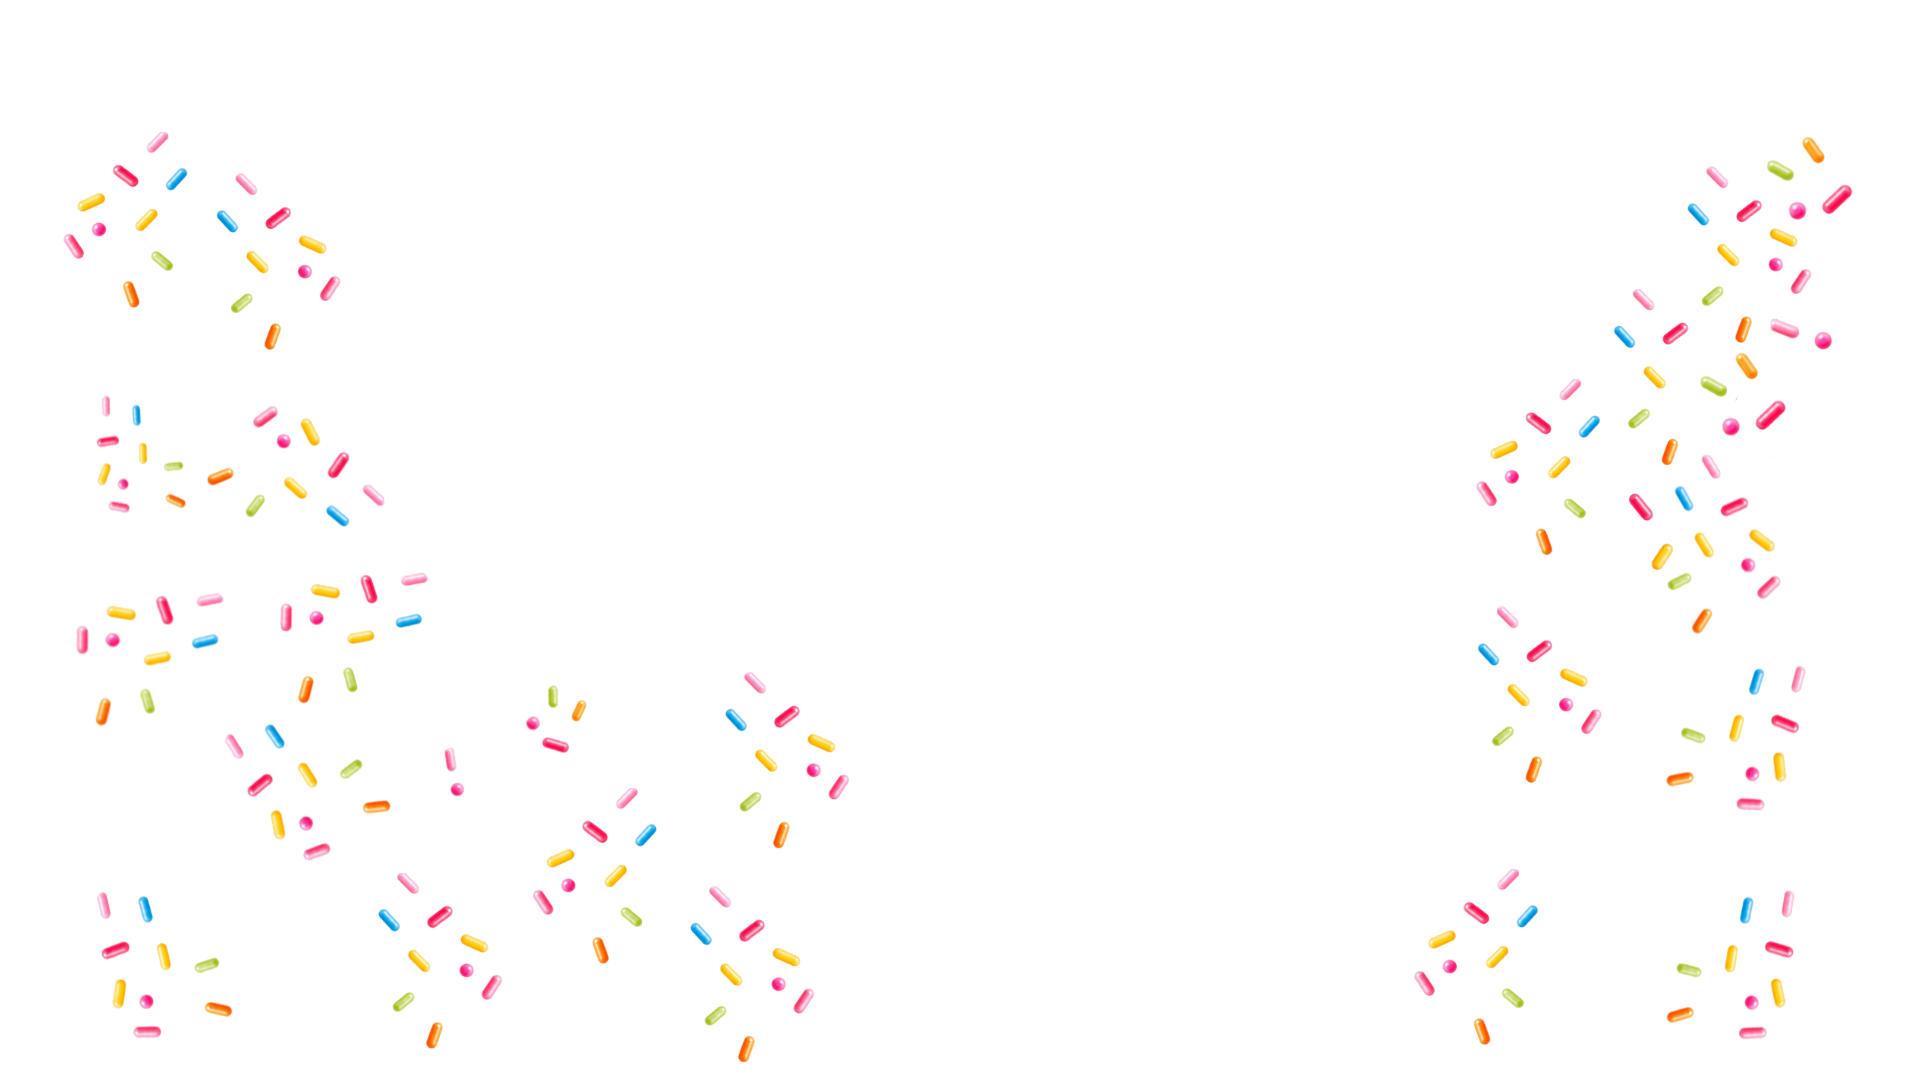
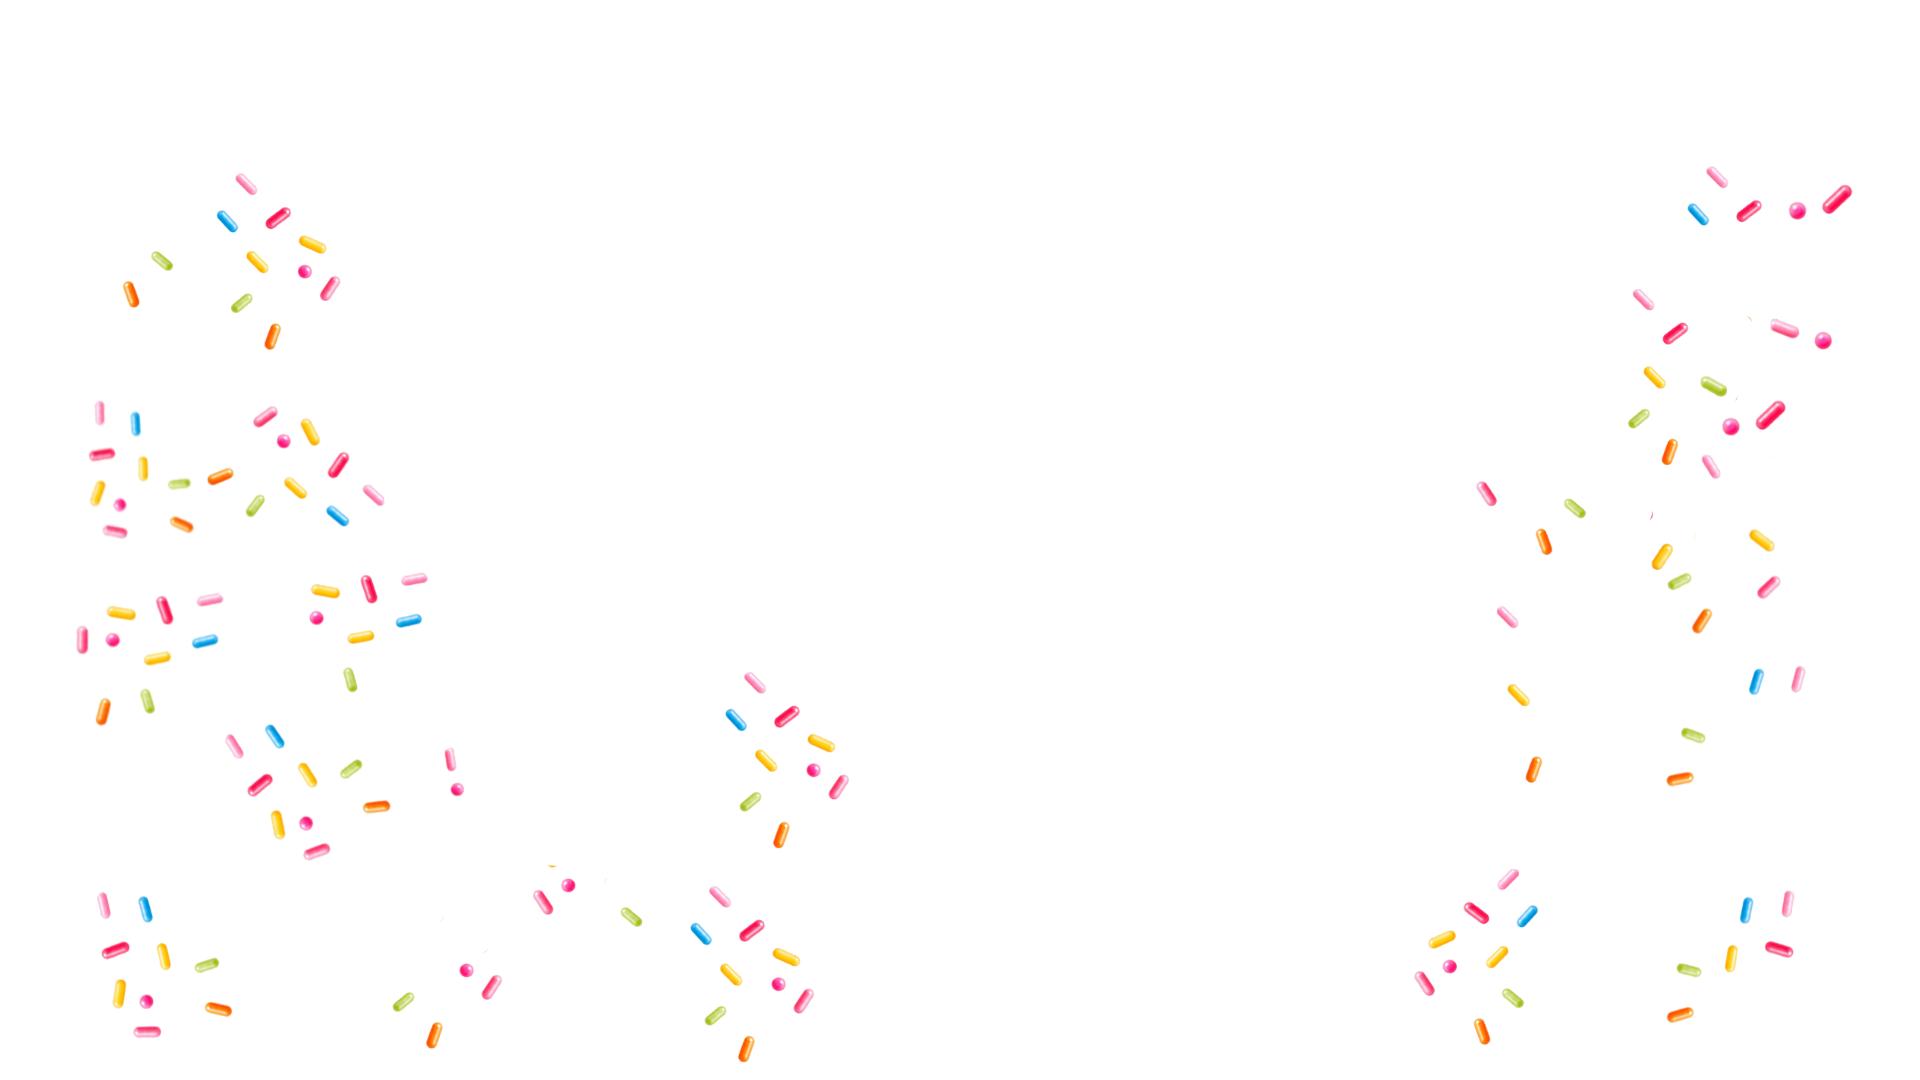
lets see

diff --git a/cake-builder.css b/cake-builder.css
@@ -7502,9 +7502,9 @@ background-image:
         repeat-y,
         repeat-y;
 
-    background-size:
-        clamp(64px, 7vw, 124px) auto,
-        clamp(64px, 7vw, 124px) auto;
+background-size:
+    190px auto,
+    190px auto;
 }
 
 @media (max-width: 720px) {
@@ -11681,4 +11681,93 @@ right: 0;
 ) .compact-choice-row label:has(input:focus-visible) {
     outline: 2px solid #4d1f16;
     outline-offset: 3px;
+}
+/* Three individually designed sprinkle patches for the top of Step 2 */
+.tpj-step2-scatter {
+    display: none;
+    position: absolute;
+    inset: 0;
+    z-index: 0;
+    pointer-events: none;
+}
+
+@media (min-width: 901px) {
+    .cake-builder-app:has(#builderStep2.is-active) .tpj-step2-scatter {
+        display: block;
+
+        background-image:
+            url("images/cake-builder/decor/TPJ-Sprinkles-abovecakescatter.png"),
+            url("images/cake-builder/decor/TPJ-Sprinkles-besideyourcakecatter.png"),
+            url("images/cake-builder/decor/TPJ-Sprinkles-middlescatter.png");
+
+        background-repeat: no-repeat, no-repeat, no-repeat;
+
+        background-size:
+            100% auto,
+            100% auto,
+            100% auto;
+
+background-position:
+    calc(50% + 190px) -250px, /* above-cake scatter: right */
+    calc(50% - 30px) -155px, /* beside-your-cake scatter: right */
+    center 45px;              /* middle scatter: down below Make It Yours */
+    }
+}
+/* Sparse additions for the four yellow-marked gaps */
+@media (min-width: 1100px) {
+
+    .cake-builder-app:has(#builderStep2.is-active)
+    :is(#cakeBoardCustomizer, .builder-step-navigation) {
+        position: relative;
+    }
+
+    .cake-builder-app:has(#builderStep2.is-active) #cakePreviewCard::before,
+    .cake-builder-app:has(#builderStep2.is-active) #cakeBoardCustomizer::before,
+    .cake-builder-app:has(#builderStep2.is-active) #cakeBoardCustomizer::after,
+    .cake-builder-app:has(#builderStep2.is-active) .builder-step-navigation::before {
+        content: "";
+        position: absolute;
+        width: 170px;
+        height: 130px;
+        pointer-events: none;
+
+        /* Show only a small cluster from the existing PNG */
+        background-image:
+            url("images/cake-builder/decor/TPJ-Sprinkles-abovecakescatter.png");
+        background-repeat: no-repeat;
+        background-size: 1218px 655px;
+        background-position: -864px -232px;
+    }
+
+    /* 1. Empty space above Make It Yours */
+    .cake-builder-app:has(#builderStep2.is-active)
+    #cakePreviewCard::before {
+        right: 24px;
+        top: -26px;
+        transform: rotate(-12deg);
+    }
+
+    /* 2. Preview-side gap when Cake Board comes into view */
+    .cake-builder-app:has(#builderStep2.is-active)
+    #cakeBoardCustomizer::before {
+        left: -178px;
+        top: -185px;
+        transform: rotate(70deg);
+    }
+
+    /* 3. Space above the board choices */
+    .cake-builder-app:has(#builderStep2.is-active)
+    #cakeBoardCustomizer::after {
+        left: 35%;
+        top: -6px;
+        transform: rotate(-10deg);
+    }
+
+    /* 4. Empty space below Previous / Continue */
+    .cake-builder-app:has(#builderStep2.is-active)
+    .builder-step-navigation::before {
+        left: 28%;
+        top: 42px;
+        transform: rotate(16deg);
+    }
 }

diff --git a/pages/cake-builder.html b/pages/cake-builder.html
@@ -21,7 +21,7 @@
 
 
 </head>
-<link rel="stylesheet" href="../cake-builder.css?v=20260929-sprinkles-4">
+<link rel="stylesheet" href="../cake-builder.css?v=20260929-sprinkles-5">
 
 
 <body>
@@ -171,6 +171,7 @@
         ========================================== -->
 <main class="builder-main">
     <div class="tpj-sprinkle-scene" aria-hidden="true"></div>
+    <div class="tpj-step2-scatter" aria-hidden="true"></div>
     <div class="builder-main-inner">
 
                 <!-- =================================
